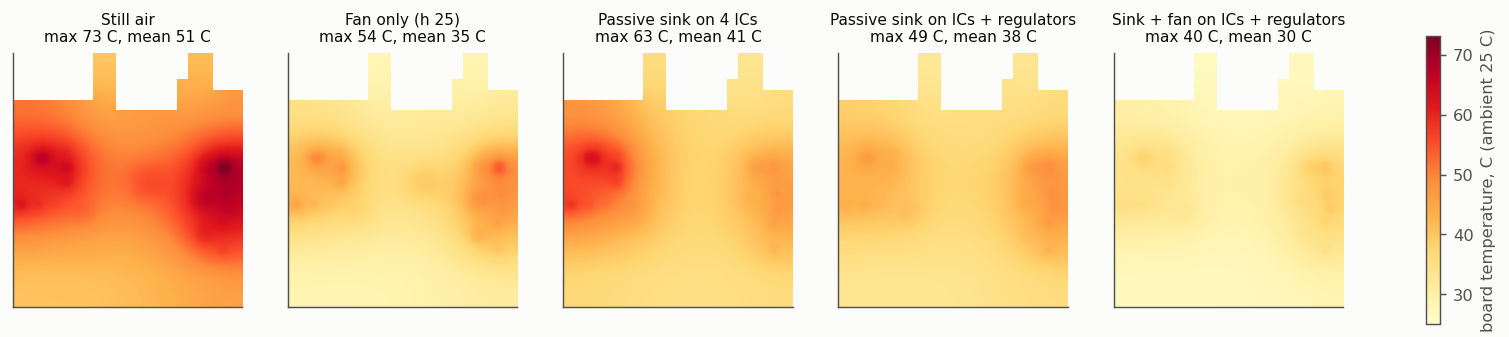
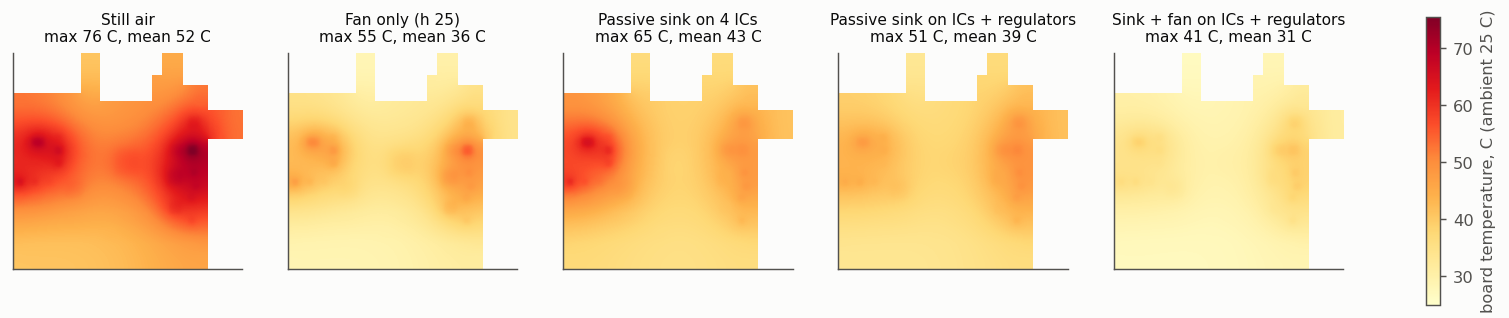
Thermal re-run with the Ethernet PHY (7.5 W, was 6.9): still air +27/+51 C, ADCLK948 84 C, FPGA 63 C, PHY 70 C; with sink and fan every junction under 92 C at 70 C ambient, the board's hottest spot 86 C (the PHY on its tab is outside the sink). Both thermal figures regenerated; SIGNAL_INTEGRITY 9.6 

diff --git a/docs/SIGNAL_INTEGRITY.md b/docs/SIGNAL_INTEGRITY.md
@@ -754,37 +754,39 @@ no plane to reach. The impedance is inside the target with margin (+1V0: 41 / 63
 
 ### 9.6 Thermal, RF budget, and what is still not simulated
 
-**Thermal (12 Nov).**
+**Thermal (12 Nov; re-run 13 Nov with the Ethernet PHY).**
 - **The model.** `thermal2d.py` treats the board as a 2-D sheet. In-plane conduction runs through
   each layer's real copper coverage: L2, L5 and L7 85 %, L4 82 %, the outer layers 16–24 %, the
   signal layers 5–7 %. Both faces cool by natural convection.
-- **The heat.** 6.9 W, from the power budget (POWER_AND_STACKUP §1.3–1.4), spread over each part's
-  pads.
+- **The heat.** 7.5 W, from the power budget (POWER_AND_STACKUP §1.3–1.4), spread over each part's
+  pads. 6.9 W until 13 Nov; the Ethernet PHY adds 0.5 W (0.15 A at 3.3 V, always powered) and its
+  load 0.1 W more in the bucks. Its θJB is taken as 12 °C/W, typical of a 6 × 6 mm QFN, not read.
 - **The junctions.** Each is the board temperature under the part plus P × θJB, or θJC for the
   exposed-pad parts, from the data sheets read.
 
 | At 25 °C ambient, still air | h = 10 W/m²K per face (convection only) | h = 15 (with radiation) |
 |---|---|---|
-| Board, mean / hottest rise | +26 / +48 °C | +17 / +38 °C |
-| ADCLK948, junction (0.95 W, θJC 8.8 °C/W, Rev. B Table 6) | **82 °C** (board 73) | 71 °C |
-| LMR33630, junction (θJB 13.6) | 79 °C | 70 °C |
-| Si549, junction (θJB 17) | 74 °C | 64 °C |
-| TPS7A8300 for +1V8_D, junction (θJB 12.3) | 71 °C | 62 °C |
-| AD9484, junction (θJC 1.7) | 68 °C | 58 °C |
-| AD9253, junction (0.46 W at most, θJC 7.1, Rev. E Table 7) | 65 °C | 55 °C |
-| XC7A50T, junction (0.73 W, θJB 8.4, UG475 Table 5-1 FTG256) | 62 °C | 53 °C |
-| AD9767, junction (LQFP, only θJA 91 is given) | under 83 °C (board 54 + P × θJA, a bound) | under 74 °C |
+| Board, mean / hottest rise | +27 / +51 °C | +18 / +40 °C |
+| ADCLK948, junction (0.95 W, θJC 8.8 °C/W, Rev. B Table 6) | **84 °C** (board 76) | 73 °C |
+| LMR33630, junction (θJB 13.6) | 82 °C | 72 °C |
+| Si549, junction (θJB 17) | 77 °C | 66 °C |
+| TPS7A8300 for +1V8_D, junction (θJB 12.3) | 72 °C | 62 °C |
+| RTL8211FSI, the Ethernet PHY (0.5 W, θJB 12 assumed) | 70 °C | 59 °C |
+| AD9484, junction (θJC 1.7) | 70 °C | 59 °C |
+| AD9253, junction (0.46 W at most, θJC 7.1, Rev. E Table 7) | 66 °C | 56 °C |
+| XC7A50T, junction (0.73 W, θJB 8.4, UG475 Table 5-1 FTG256) | 63 °C | 53 °C |
+| AD9767, junction (LQFP, only θJA 91 is given) | under 84 °C (board 55 + P × θJA, a bound) | under 75 °C |
 
 **On the bench this is comfortable. In a vehicle it is not.**
-- **The cause.** The board is small (134 cm²) for 6.9 W. The clock buffer, the radar ADC, the
+- **The cause.** The board is small (134 cm²) for 7.5 W. The clock buffer, the radar ADC, the
   four drivers and the 5 V buck share it.
 - **The arithmetic.** At 60–70 °C ambient, add 35–45 °C to every figure above. Around the clock
   buffer and the ADCs the board then passes 110 °C.
 - **What it exceeds.**
   - The parts' 85 °C ambient rating: the board under the ADCs and the clock buffer is the
     ambient they see.
-  - The FPGA's 100 °C junction limit (I grade): 62 °C on the bench becomes 97–107 °C.
-  - The ADCLK948 reaches 117–127 °C at the junction. That is under its 150 °C maximum, but
+  - The FPGA's 100 °C junction limit (I grade): 63 °C on the bench becomes 98–108 °C.
+  - The ADCLK948 reaches 119–129 °C at the junction. That is under its 150 °C maximum, but
     outside its rated range.
 - **What a vehicle install needs.** The KV260's fan blowing across this board, or a thermal path
   to the enclosure, as VEHICLE_PLATFORM plans. At 1 m/s the data sheets' θJA fall by 10–15 %, and
@@ -806,22 +808,25 @@ solved, not estimated.
 
 | Hottest junction, at 25 °C ambient (and at 70 °C) | Still air | Fan only | Passive sink, 4 ICs | Passive sink, ICs + regulators | Sink + fan, ICs + regulators |
 |---|---|---|---|---|---|
-| Board, max / mean | 73 / 51 °C | 54 / 35 | 63 / 41 | 49 / 38 | 40 / 30 |
-| Hottest part | ADCLK948 82 (127) | ADCLK948 62 (107) | LMR33630 75 (120) | Si549 53 (98) | Si549 45 (90) |
-| ADCLK948 | 82 (127) | 62 (107) | 50 (95) | 51 (96) | 43 (88) |
-| XC7A50T | 62 (107) | 45 (90) | 37 (82) | 38 (83) | 31 (76) |
-| AD9484 / AD9253 | 68 / 65 | 50 / 47 | 43 / 41 | 45 / 42 | 36 / 34 |
-| LMR33630 | 79 (124) | 61 (106) | 75 (120) | 52 (97) | 44 (89) |
+| Board, max / mean | 76 / 52 °C | 55 / 36 | 65 / 43 | 51 / 39 | 41 / 31 |
+| Hottest part | ADCLK948 84 (129) | ADCLK948 63 (108) | LMR33630 78 (123) | Si549 56 (101) | Si549 46 (91) |
+| ADCLK948 | 84 (129) | 63 (108) | 52 (97) | 53 (98) | 44 (89) |
+| XC7A50T | 63 (108) | 46 (91) | 37 (82) | 39 (84) | 31 (76) |
+| AD9484 / AD9253 | 70 / 66 | 50 / 47 | 44 / 41 | 46 / 43 | 36 / 34 |
+| LMR33630 | 82 (127) | 63 (108) | 78 (123) | 54 (99) | 45 (90) |
+| RTL8211FSI (not under the sink) | 70 (115) | 50 (95) | 54 (99) | 55 (100) | 45 (90) |
 
 ![Board temperature for five ways of cooling it](sim/rev05_cooling.png)
 
-- **Airflow alone halves every rise.** At 70 °C it brings the FPGA to 90 °C, inside its limit.
-  The board under the clock buffer still reaches about 99 °C.
+- **Airflow alone halves every rise.** At 70 °C it brings the FPGA to 91 °C, inside its limit.
+  The board under the clock buffer still reaches about 100 °C.
 - **A sink on the four ICs alone leaves the power corner hot.** The buck then becomes the hottest
   part. The sink has to touch the regulators too: the LMR33630, and the two TPS7A8300 and
   TPS562201 that dissipate most.
-- **Sink plus fan keeps everything under 90 °C at 70 °C ambient.** It takes 3.3 of the 6.9 W.
-  Every board temperature is then under 85 °C, the parts' rating, with margin.
+- **Sink plus fan keeps every junction under 92 °C at 70 °C ambient.** It takes 3.4 of the 7.5 W.
+  The board's hottest spot is then 86 °C, at the parts' 85 °C rating, no longer under it with
+  margin (85 °C before the PHY). The PHY on its tab is outside the sink here; touching it too, or a
+  pad to the RJ45 pedestal of the mount (MECHANICAL), would win that back.
 - **Not modelled.** The contacts' tops are estimates; the ADI data sheets give no θJC(top). The
   sink is taken as isothermal. Heat into the KV260 is not counted, which errs on the hot side.
 

diff --git a/README.md b/README.md
@@ -125,7 +125,7 @@ BGA, for one).
      middle node 51 → 3 mm, common mode 1–6 dB lower), the reference oscillator's pair was
      coupled and matched, and the SDR ADC's input network was simulated: its copper costs
      nothing in band, so it stays.
-   - **Thermal.** 6.9 W on 134 cm² in still air: +26 °C mean and +48 °C at the clock buffer. Fine
+   - **Thermal.** 7.5 W on 134 cm² in still air (with the Ethernet PHY): +27 °C mean and +51 °C at the clock buffer. Fine
      on the bench. A vehicle install needs airflow or a path to the enclosure.
 2. **Ten of the 19 LVDS pairs are not coupled** (11 of 22 counting U401's three clock pairs:
    `CLK_ADCS` and `CLK_FPGA` were re-routed as coupled pairs on 12 Nov, `CLK_FPGA` after its
@@ -165,9 +165,9 @@ BGA, for one).
      −3.0 dBm, NF 22 dB. On both, the ADC is 80–92 % of the noise.
    - **Transmit levels** and **the DAC filters with their copper.**
    - **The board's thermal map**, with junctions for every part that has data. At 25 °C in still
-     air, the hottest junction is the ADCLK948 at 82 °C and the FPGA is at 62 °C. A vehicle
+     air, the hottest junction is the ADCLK948 at 84 °C and the FPGA is at 63 °C. A vehicle
      needs airflow: a heatsink on the ICs and the regulators, with a fan, keeps every junction
-     under 90 °C at 70 °C ambient.
+     under 92 °C at 70 °C ambient.
 
    The first boards are for evaluation.
 7. **The AERIS-10 end of the ribbon does not exist yet.**
@@ -321,7 +321,7 @@ re-placement of 12 Nov ([SIGNAL_INTEGRITY §9.3](docs/SIGNAL_INTEGRITY.md)).
 ![DAC reconstruction filters](docs/sim/rev05_filters.png)
 
 **Board temperature** at 25 °C ambient in still air: a 2-D model with each layer's real copper,
-convection from both faces, and the power budget's 6.9 W
+convection from both faces, and the power budget's 7.5 W (re-run 13 Nov with the Ethernet PHY)
 ([SIGNAL_INTEGRITY §9.6](docs/SIGNAL_INTEGRITY.md)).
 
 ![Board temperature](docs/sim/rev05_thermal.png)
